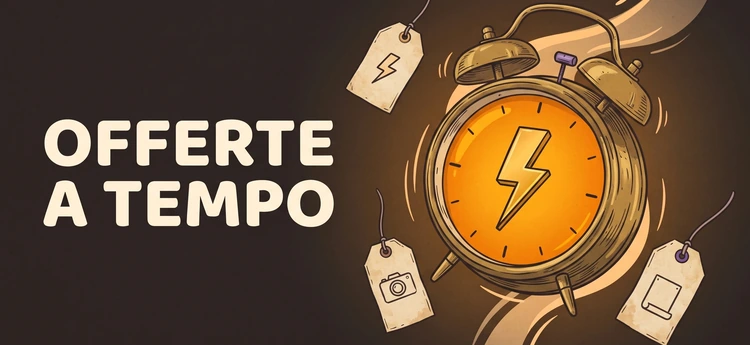
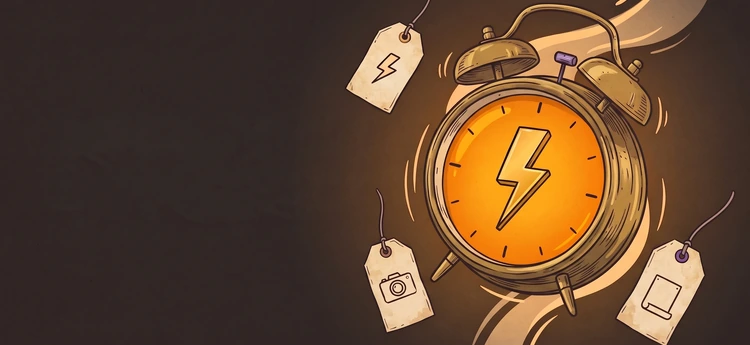
Il titolo delle card «Da scoprire» lo scrive l'app, fermo sul disegno
I fondi nuovi di Andrea sono senza testo (ROVESCIA il testo-nel-
disegno della nascita: il titolo si muoveva con l'immagine), portati
a 750x345 con lo stesso ritaglio centrato approvato. Il titolo è
`.sc-titolo` — Baloo 2, crema fissa nei due temi, largo 96px nella
ZONA QUIETA che i fondi riservano a sinistra — ed è un FRATELLO
dell'img, mai un involucro: l'animazione vive sull'img e il titolo è
fermo PER COSTRUZIONE. Si mostra solo con l'immagine (`img ~`), o
sull'errore raddoppierebbe il testo della riserva.

LA LEGGIBILITÀ SI MISURA, NON SI SPERA: la prova nuova campiona la
fascia del titolo sui file VERI col PIXEL PEGGIORE (mai la media:
basta una chiazza chiara sotto una lettera) su una fascia PIÙ LARGA
del titolo — il margine dell'onda — ed esige un contrasto >=4.5 con
la crema. Misurati: 11.4 (lampo) e 12.0 (sconto). Il limite dei 96px
non è un gusto: a 100 il primo cartellino della sveglia entra nella
fascia e il peggior pixel crolla a 1.36.

Verificato dal vivo via CDP (8/8): titoli visibili col testo del
catalogo, animationName none sui titoli mentre i disegni si muovono,
Baloo 2 servito, zero errori JS, scatti nei due temi e a 320.
4678 prove verdi.

Changed region(s): [[0.0613, 0.3478, 0.46, 0.4928], [0.0613, 0.5217, 0.46, 0.6667]]

diff --git a/miniapp.html b/miniapp.html
@@ -897,6 +897,24 @@
     gap:4px;color:#FAF4E4;font-size:13px;font-weight:800}
   .sc-riserva .sc-emoji{font-size:30px;line-height:1}
   .scoprire-card img + .sc-riserva{display:none}
+  /* IL TITOLO LO SCRIVE L'APP, FERMO SOPRA IL DISEGNO CHE SI MUOVE
+     (ago 2026, decisione di Andrea che ROVESCIA il testo-nel-disegno
+     della nascita): e' un FRATELLO dell'img e mai un suo involucro —
+     l'animazione vive sull'img, quindi il titolo e' fermo PER
+     COSTRUZIONE — e atterra nella ZONA QUIETA che i due fondi
+     riservano a sinistra: la leggibilita' la garantisce il DISEGNO,
+     e la misura in CI la prova del contrasto sui file veri (crema
+     sul bruno della fascia: >=4.5 sul PIXEL PEGGIORE, misurati
+     ~11-12; la prova campiona una fascia piu' larga del titolo, il
+     margine dell'onda). Crema FISSA nei due temi, come tutto cio'
+     che vive su una foto. Si mostra SOLO con l'immagine (img ~), o
+     sull'errore raddoppierebbe il testo della riserva; largo 96px:
+     oltre, sul fondo della sveglia, comincia il primo cartellino. */
+  .sc-titolo{position:absolute;left:14px;top:0;bottom:0;width:96px;
+    display:none;flex-direction:column;justify-content:center;
+    font-family:'Baloo 2',system-ui,sans-serif;font-size:17px;
+    line-height:1.15;font-weight:800;color:#FAF4E4}
+  .scoprire-card img ~ .sc-titolo{display:flex}
   /* ---------- offerta lampo ---------- */
   /* Il badge vive SULLA foto: colori fissi nei due temi, come tutto
      cio' che sta sulla foto. ROSSO caldo (#C0392B, bianco sopra =
@@ -7686,7 +7704,8 @@ function renderScoprire(){
          onkeydown="if(event.key==='Enter'||event.key===' '){event.preventDefault();toccaScoperta(this.dataset.id);}">
       <img src="/assets/scoprire/${v.file}" alt="" loading="lazy"
            decoding="async" onerror="this.remove()"
-      ><span class="sc-riserva" aria-hidden="true"><span class="sc-emoji">${v.emoji}</span>${v.testo}</span>
+      ><span class="sc-riserva" aria-hidden="true"><span class="sc-emoji">${v.emoji}</span>${v.testo}</span
+      ><span class="sc-titolo" aria-hidden="true">${v.testo}</span>
     </div>`).join('');
 }
 /* Il gesto della card: accende il suo filtro, e IL RITOCCO DELLA CARD

diff --git a/prove.py b/prove.py
@@ -21095,6 +21095,57 @@ def prove_scoprire():
     # della striscia lo ritagliava (visto da Andrea)
     prova("l'anello ha l'aria per il bordo di sotto", True,
           "padding:8px var(--pad) 6px}" in mini)
+
+    # ---- 6. IL TITOLO LO SCRIVE L'APP, FERMO SOPRA IL DISEGNO CHE
+    # SI MUOVE (ago 2026, decisione di Andrea che ROVESCIA il
+    # testo-nel-disegno della nascita).
+    # Fratello dell'img e mai un involucro: l'animazione vive
+    # sull'img e il titolo e' fermo PER COSTRUZIONE — la sua regola
+    # non deve guadagnare un'animation, mai.
+    _tit = mini[mini.index(".sc-titolo{"):]
+    _tit = _tit[:_tit.index("}")]
+    prova("il titolo non si anima: e' fermo per costruzione", False,
+          "animation" in _tit)
+    # si mostra SOLO con l'immagine, o sull'errore raddoppierebbe il
+    # testo della riserva (che il titolo lo porta gia')
+    prova("il titolo si mostra solo con l'immagine", (True, True),
+          ("display:none" in _tit,
+           ".scoprire-card img ~ .sc-titolo{display:flex}" in mini))
+    # tre: l'aria-label della card, la riserva e il titolo — un
+    # quarto posto sarebbe un doppione da guardare
+    prova("...e il testo e' quello del catalogo, tre volte", 3,
+          _rs.count("${v.testo}"))
+    # LA PROVA DEL CONTRASTO, sui file veri e non sulle intenzioni
+    # (il patto del pareggio dell'inchiostro): il titolo atterra
+    # nella ZONA QUIETA dei fondi — left:14 largo 96 sulla card
+    # 250x115, cioe' x 42..330 sull'immagine 750x345 — e si campiona
+    # fino a 342, PIU' LARGO del titolo: il margine dell'onda, che
+    # sposta il disegno di qualche pixel. Il contrasto e' col PIXEL
+    # PEGGIORE, non con la media: basta una chiazza chiara sotto una
+    # lettera. Misurati alla nascita: 11.4 (lampo) e 12.0 (sconto) —
+    # un ridisegno che scalda la fascia si sente da qui.
+    try:
+        from PIL import Image as _Im
+
+        def _lum(px):
+            def _c(v):
+                v /= 255
+                return v / 12.92 if v <= 0.04045 else (
+                    (v + 0.055) / 1.055) ** 2.4
+            return (0.2126 * _c(px[0]) + 0.7152 * _c(px[1])
+                    + 0.0722 * _c(px[2]))
+
+        _lc = _lum((250, 244, 228))          # la crema del titolo
+        for _f in ("lampo.webp", "sconto.webp"):
+            _im = _Im.open(os.path.join(
+                "assets", "scoprire", _f)).convert("RGB")
+            _lmax = max(_lum(_im.getpixel((x, y)))
+                        for y in range(30, 315, 3)
+                        for x in range(42, 342, 3))
+            prova(f"la fascia del titolo regge la crema ({_f})", True,
+                  (_lc + .05) / (_lmax + .05) >= 4.5)
+    except ImportError:
+        salta("contrasto del titolo: serve Pillow")
     # lo spegnimento deve VINCERE per specificita': col selettore nudo
     # perdeva contro [data-id="lampo"] img e i disegni si muovevano
     # anche in reduced-motion — la sentinella diceva che la regola
